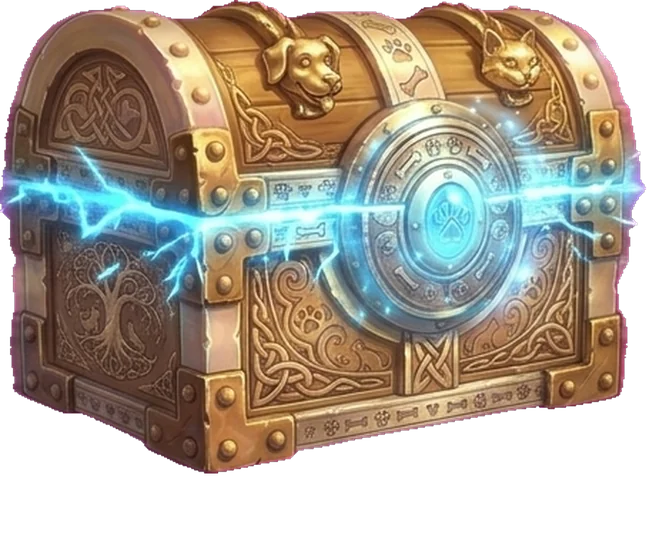
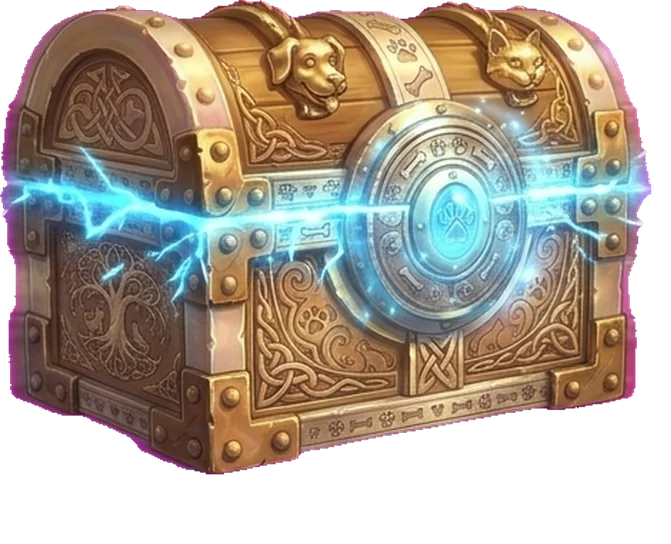
Costume and pet chest art: key only the border-connected magenta so glows stay
Claude-Session: https://claude.ai/code/session_01W4v7cyzS6Fr8aMVaGgywWE

diff --git a/index.html b/index.html
@@ -2002,7 +2002,7 @@
     <script src="js/hero-body.js?v=20261116cd"></script>
     <script src="js/combat.js?v=20261116h"></script>
     <script src="js/crit-fx.js?v=20261110e"></script>
-    <script src="js/ui.js?v=20261116zzd"></script>
+    <script src="js/ui.js?v=20261116zze"></script>
     <script src="js/market.js?v=20261113c"></script>
     <script src="js/guide-intro.js?v=20261116b"></script>
     <script src="js/guide-upgrade.js?v=20261116a"></script>
